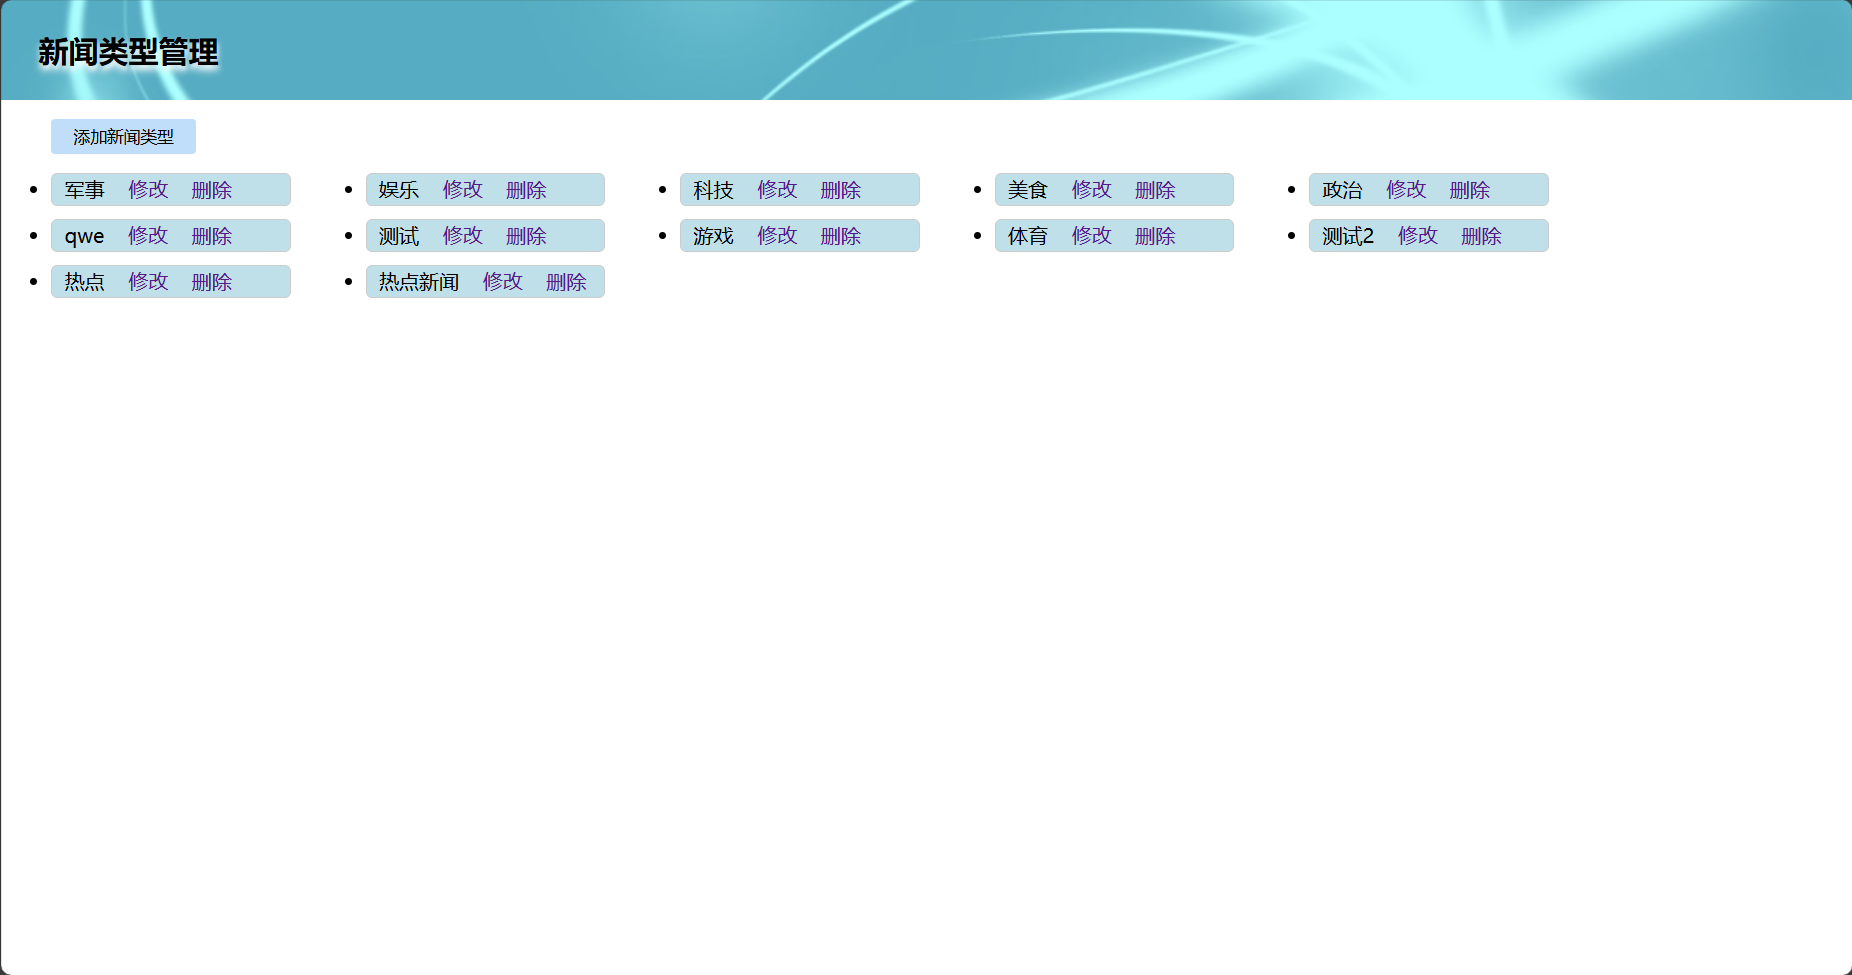
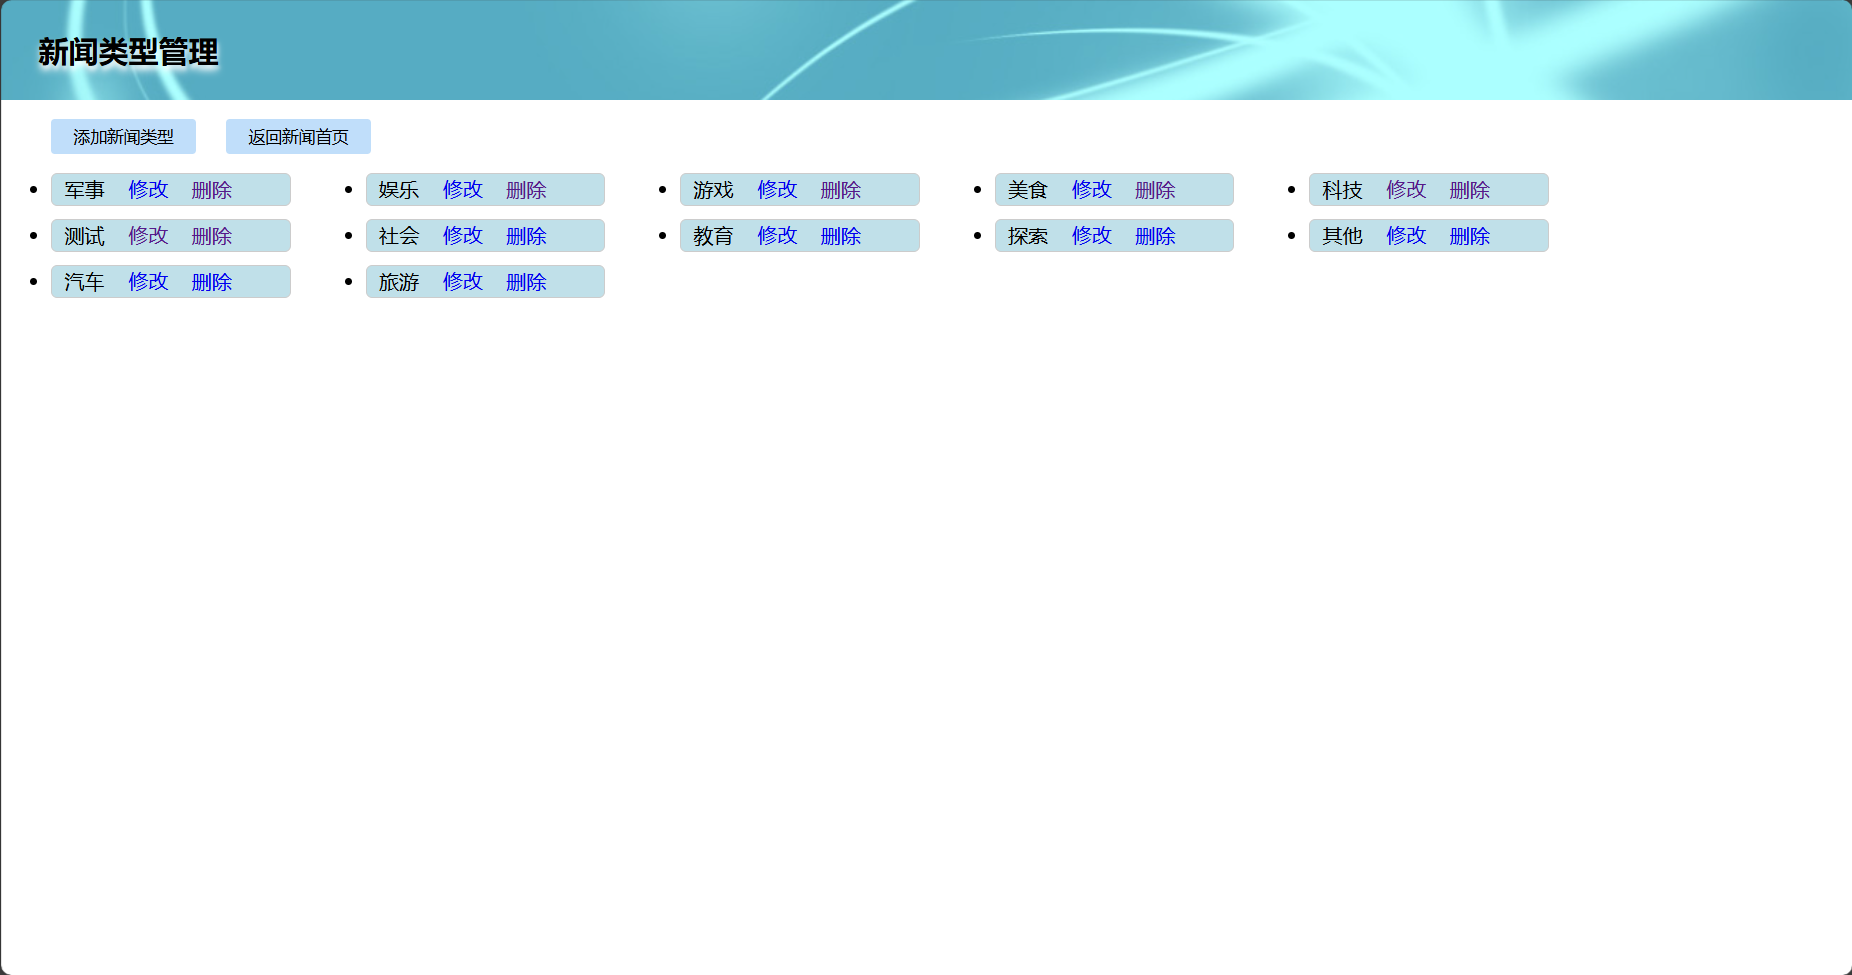
实现首页与新闻类型管理页相互跳转

diff --git a/web/css/base.css b/web/css/base.css
@@ -75,6 +75,16 @@
     margin-left: 40px;
 }
 
+#back{
+    margin-left: 180px;
+    margin-top: -28.4px;
+}
+
+#typeMg{
+    margin: -25px auto auto 630px;
+    float: left;
+}
+
 .aButton {
     text-decoration: none;
 }
@@ -99,7 +109,7 @@
 }
 
 #box{
-    margin: 0 auto;
+    margin: 20px auto;
     width: 787px;
 }
 
@@ -120,10 +130,10 @@
 }
 
 #navbar{
-    height: 35px;
+    width: 630px;
     padding-top: 15px;
+    padding-bottom: 10px;
     padding-left: 20px;
-    border-bottom: 1px solid gray;
 }
 
 #navbar ul{
@@ -156,5 +166,11 @@
 #newslist{
     padding-left: 25px;
     padding-top: 15px;
+}
 
+.clearfloat{
+    clear:both;
+    height:0;
+    font-size:1px;
+    line-height:0;
 }

diff --git a/src/indi/bairu/newsproj/controller/NewsTypeController.java b/src/indi/bairu/newsproj/controller/NewsTypeController.java
@@ -32,6 +32,6 @@ public class NewsTypeController extends HttpServlet {
 
     @Override
     protected void doPost(HttpServletRequest request, HttpServletResponse response) throws ServletException, IOException {
-
+        doGet(request, response);
     }
 }
